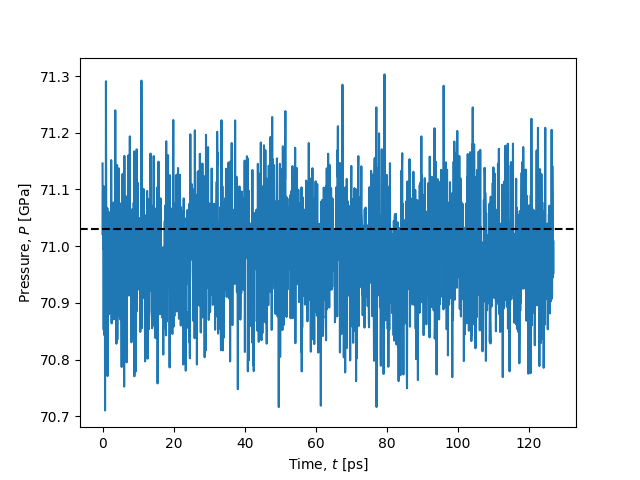
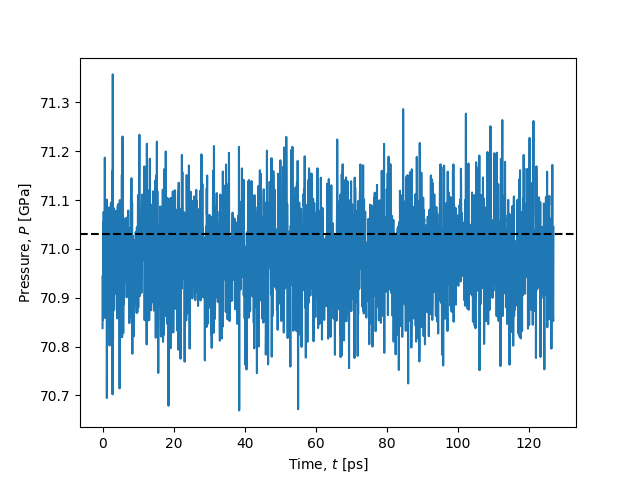
Updated science test for ZBL to new format with a run.py script.

diff --git a/science_tests/ZBL/generate_figures.py b/science_tests/ZBL/generate_figures.py
@@ -1,0 +1,126 @@
+""" Analyse data from simulation """
+
+def main():
+
+    import matplotlib.pyplot as plt
+    import numpy as np
+
+    import gamdpy as gp
+
+    from zbl import conversion_factors_zbl
+
+    cf = conversion_factors_zbl(Z=29, molar_mass=63.546)
+    print(cf)
+
+    filename='./zbl.h5'
+    output = gp.tools.TrajectoryIO(filename).get_h5()
+
+    nblocks, nconfs, N, D = output['trajectory/positions'].shape
+    print(f'Number of timeblocks:          {nblocks = }')
+    print(f'Configurations per timeblock:  {nconfs = }')
+    print(f'Number of particles:           {N = }')
+    print(f'Number of spatial dimensions:  {D = }')
+
+      ########################
+      ##   Thermodynamics   ##
+      ########################
+
+    # Extract thermodynamic data
+    U, W, K = gp.ScalarSaver.extract(output, ['U', 'W', 'K'], per_particle=False, first_block=1)
+
+    # Get the associated times
+    times = gp.ScalarSaver.get_times(output, first_block=1)
+
+    # Plot potential energy per particle as a function of time
+    plt.figure()
+    plt.plot(times*cf['in_ps'], U/N*cf['in_eV'])
+    u_lammps = 3.580  # eV/particle
+    plt.axhline(u_lammps, color='k', linestyle='--')
+    plt.xlabel(r'Time, $t$ [ps]')
+    plt.ylabel('Potential energy per particle, $u=U/N$ [eV]')
+    plt.savefig('energy.png')
+    plt.show()
+
+    # Plot pressure in Gpa
+    simbox = output['initial_configuration'].attrs['simbox_data']
+    volume = np.prod(simbox)
+    rho = N/volume
+    dof = D * N - D  # degrees of freedom
+    T_kin = 2 * K / dof
+    P = rho * T_kin + W / volume
+
+    plt.figure()
+    plt.plot(times*cf['in_ps'], P*cf['in_GPa'])
+    p_lammps = 71.03  # GPa
+    plt.axhline(p_lammps, color='k', linestyle='--')
+    plt.xlabel(r'Time, $t$ [ps]')
+    plt.ylabel('Pressure, $P$ [GPa]')
+    plt.savefig('pressure.png')
+    plt.show()
+
+    # Plot WU scatter plot
+    plt.figure()
+    x = U*cf['in_eV']/N
+    y = W*cf['in_eV']/N
+    R = np.corrcoef(x, y)[0,1]
+    slope = np.cov(x, y)[0,1]/(np.var(x))
+    intersection = np.mean(y)-slope*np.mean(x)
+    x_fit = np.linspace(np.min(x), np.max(x), 2)
+    plt.title(f'R: {R:.4f},   slope = {slope:.3f}')
+    plt.plot(x, y, 'o')
+    plt.plot(x_fit, slope*x_fit+intersection, 'r--', lw=4.0, alpha=0.8)
+    plt.xlabel(r'Potential energy, $U/N$ [eV]')
+    plt.ylabel('Virial, $W/N$ [eV]')
+    plt.savefig('UW.png')
+    plt.show()
+
+      #############
+      ##   RDF   ##
+      #############
+
+    configuration = gp.Configuration(D=D, N=N)
+    configuration.simbox = gp.Orthorhombic(D, output['initial_configuration'].attrs['simbox_data'])
+    configuration.ptype = output['initial_configuration/ptype']
+    configuration.copy_to_device()
+
+    calc_rdf = gp.CalculatorRadialDistribution(configuration, bins=1000)
+    positions = output['trajectory/positions']  # Shape: nblocks, nconfs, N, D
+    first_block = 1
+    for pos in positions[first_block:, -1, :, :]:
+        configuration['r'] = pos
+        configuration.copy_to_device()
+        calc_rdf.update()
+    rdf_data = calc_rdf.read()
+
+    plt.figure()
+    plt.plot(rdf_data['distances']*cf['in_Angstrom'], rdf_data['rdf'][:,0,0])
+    plt.xlabel(r'Pair distance, $r_{ij}$ [Å]')
+    plt.ylabel('Radial Distribution Function')
+    plt.xlim(0, None)
+    plt.ylim(0, None)
+    plt.savefig('rdf.png')
+    plt.show()
+
+      #############
+      ##   MSD   ##
+      #############
+
+    qvalues = 3.0/cf['in_Angstrom']
+    dynamics = gp.tools.calc_dynamics(output, first_block=first_block, qvalues=qvalues)  # Dictionary with dynamics
+    dynamics.keys()
+
+    plt.figure()
+    plt.plot(dynamics['times']*cf['in_ps'], dynamics['msd']*cf['in_Angstrom']**2, 'o')
+    plt.xscale('log')
+    plt.ylim(0, None)
+    plt.xlabel(r'Time, $t$ [ps]')
+    plt.ylabel(r'Mean squared displacement [Å$^2$]')
+    plt.xscale('log')
+    plt.yscale('log')
+    plt.xlim(0.001, 1e2)
+    plt.ylim(0.0001, 1e3)
+    plt.savefig('msd.png')
+    plt.show()
+
+if __name__ == "__main__":
+    main()

diff --git a/science_tests/ZBL/run.py b/science_tests/ZBL/run.py
@@ -1,0 +1,54 @@
+""" Test that ZBL potential is giving same results as LAMMPS """
+import sys
+
+def test_zbl():
+    import numpy as np
+    import gamdpy as gp
+    import pytest
+    from zbl import conversion_factors_zbl
+
+    cf = conversion_factors_zbl(Z=29, molar_mass=63.546)
+
+    filename = './zbl.h5'
+    output = gp.tools.TrajectoryIO(filename).get_h5()
+    nblocks, nconfs, N, D = output['trajectory/positions'].shape
+    U, W, K = gp.ScalarSaver.extract(output, ['U', 'W', 'K'], per_particle=False, first_block=1)
+
+    # Energy in eV/particle
+    u_lammps = 3.580  # eV/particle
+    u_gamdpy = float(np.mean(U/N*cf['in_eV']))
+    print(f"u_lammps={u_lammps:.3f}, u_gamdpy={u_gamdpy:.3f}")
+    assert u_lammps == pytest.approx(u_gamdpy, rel=1e-2)
+
+    # Pressure in Gpa
+    simbox = output['initial_configuration'].attrs['simbox_data']
+    volume = np.prod(simbox)
+    rho = N / volume
+    dof = D * N - D  # degrees of freedom
+    T_kin = 2 * K / dof
+    P = rho * T_kin + W / volume
+
+    p_lammps = 71.03  # GPa
+    p_gamdpy = float(np.mean(P*cf['in_GPa']))
+    print(f"p_lammps={p_lammps:.3f}, p_gamdpy={p_gamdpy:.3f}")
+    assert p_lammps == pytest.approx(p_gamdpy, rel=1e-2)
+
+mode = "ci" # default
+if "nightly" in sys.argv:
+    mode = "nightly"
+if "interactive" in sys.argv:
+    mode = "interactive" # if both present then go with "interactive"
+print("Mode=%s" % mode)
+
+# Run simulation (produce zbl.h5 file)
+from zbl import main as setup
+if mode == "ci" or "setup" in sys.argv:
+    setup()
+
+# Run tests
+test_zbl()
+
+# Generate figures
+if mode == "interactive":
+    from generate_figures import main as generate_figures
+    generate_figures()
